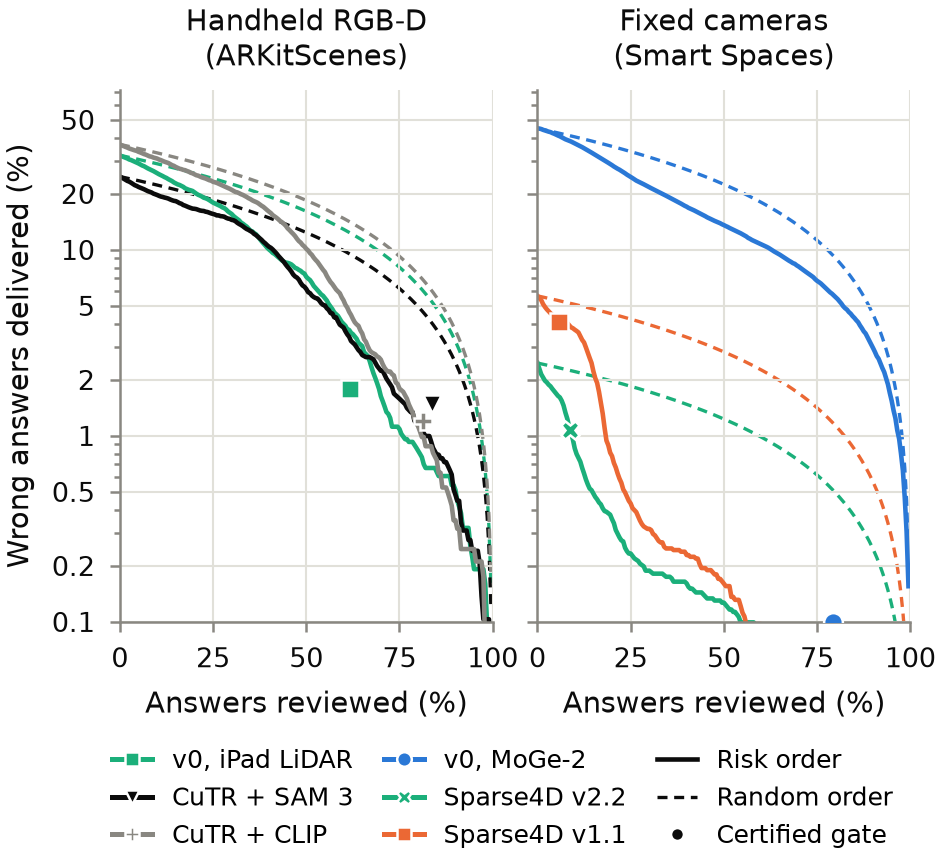
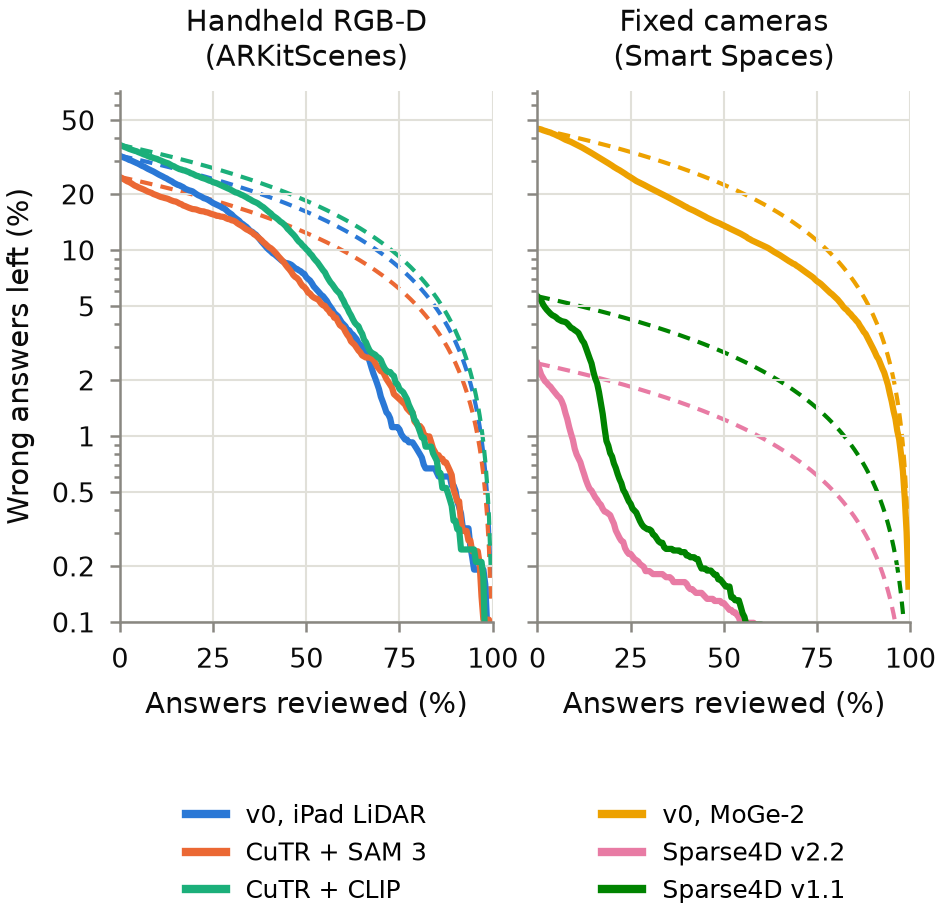
Regenerate the review-effort figure; release 0.2.0.1
- results/review_effort/review_effort.{png,pdf}: redrawn by rerunning scripts/run_review_effort.py at 2232bff with
  the original run's default inputs (9.5 s). effort_curves, effort_targets, operating_points and miss_review are
  byte-identical to the original run, and the three committed tables are unchanged.
- results/review_effort/summary.json: that run's summary (git commit 2232bff; the data-drive path written as
  <data>, as in the other summaries). Its inputs, settings and headline equal the previous summary's.
- README: the caption says what the solid and dashed lines are and no longer mentions gate markers.
- VERSION 0.2.0.0 -> 0.2.0.1 and a CHANGELOG entry.

claims.py: 192 of 192 quantities pass. Tests: 415 passed, 15 skipped.

diff --git a/README.md b/README.md
@@ -19,9 +19,9 @@ cameras.
 
 ![Review effort on held-out scenes: wrong answers left against the share of answers reviewed, in order of predicted risk (solid) or at random (dashed)](results/review_effort/review_effort.png)
 
-*Reviewing answers in order of predicted risk (solid) reaches a low error rate far sooner than reviewing at random
-(dashed). Left: 106 real handheld RGB-D videos; right: 12 synthetic warehouse scenes. Markers: each audit's
-certified gate. v0 is the baseline that lifts SAM 3 masks through iPad LiDAR or MoGe-2 monocular depth; CuTR is
+*Solid lines: answers reviewed in order of predicted risk, riskiest first. Dashed lines: answers reviewed in random
+order. Risk order reaches a low error rate far sooner. Left: 106 real handheld RGB-D videos; right: 12 synthetic
+warehouse scenes. v0 is the baseline that lifts SAM 3 masks through iPad LiDAR or MoGe-2 monocular depth; CuTR is
 Cubify Anything's detector, its boxes named by SAM 3 or CLIP; Sparse4D v2.2 and v1.1 are NVIDIA's current and
 pre-2026 checkpoints. Made by `scripts/run_review_effort.py`.*
 

diff --git a/CHANGELOG.md b/CHANGELOG.md
@@ -4,6 +4,15 @@ All notable changes to this project are documented here. Format is a
 loose variant of [Keep a Changelog](https://keepachangelog.com/en/1.1.0/),
 with 4-digit `MAJOR.MINOR.PATCH.MICRO` version numbers.
 
+## [0.2.0.1] - 2026-10-28
+
+### Changed
+
+- The review-effort figure (`scripts/run_review_effort.py`, `results/review_effort/review_effort.{png,pdf}`) gives
+  each labeller its own colour, puts a legend under each panel and no longer draws the certified gates' operating
+  points, which stay in `operating_points.csv`. Regenerated by rerunning the script; every table it writes is
+  unchanged.
+
 ## [0.2.0.0] - 2026-10-28
 
 The first complete prototype: the label audit, its certificates and the miss audit, run on 106 ARKitScenes videos
